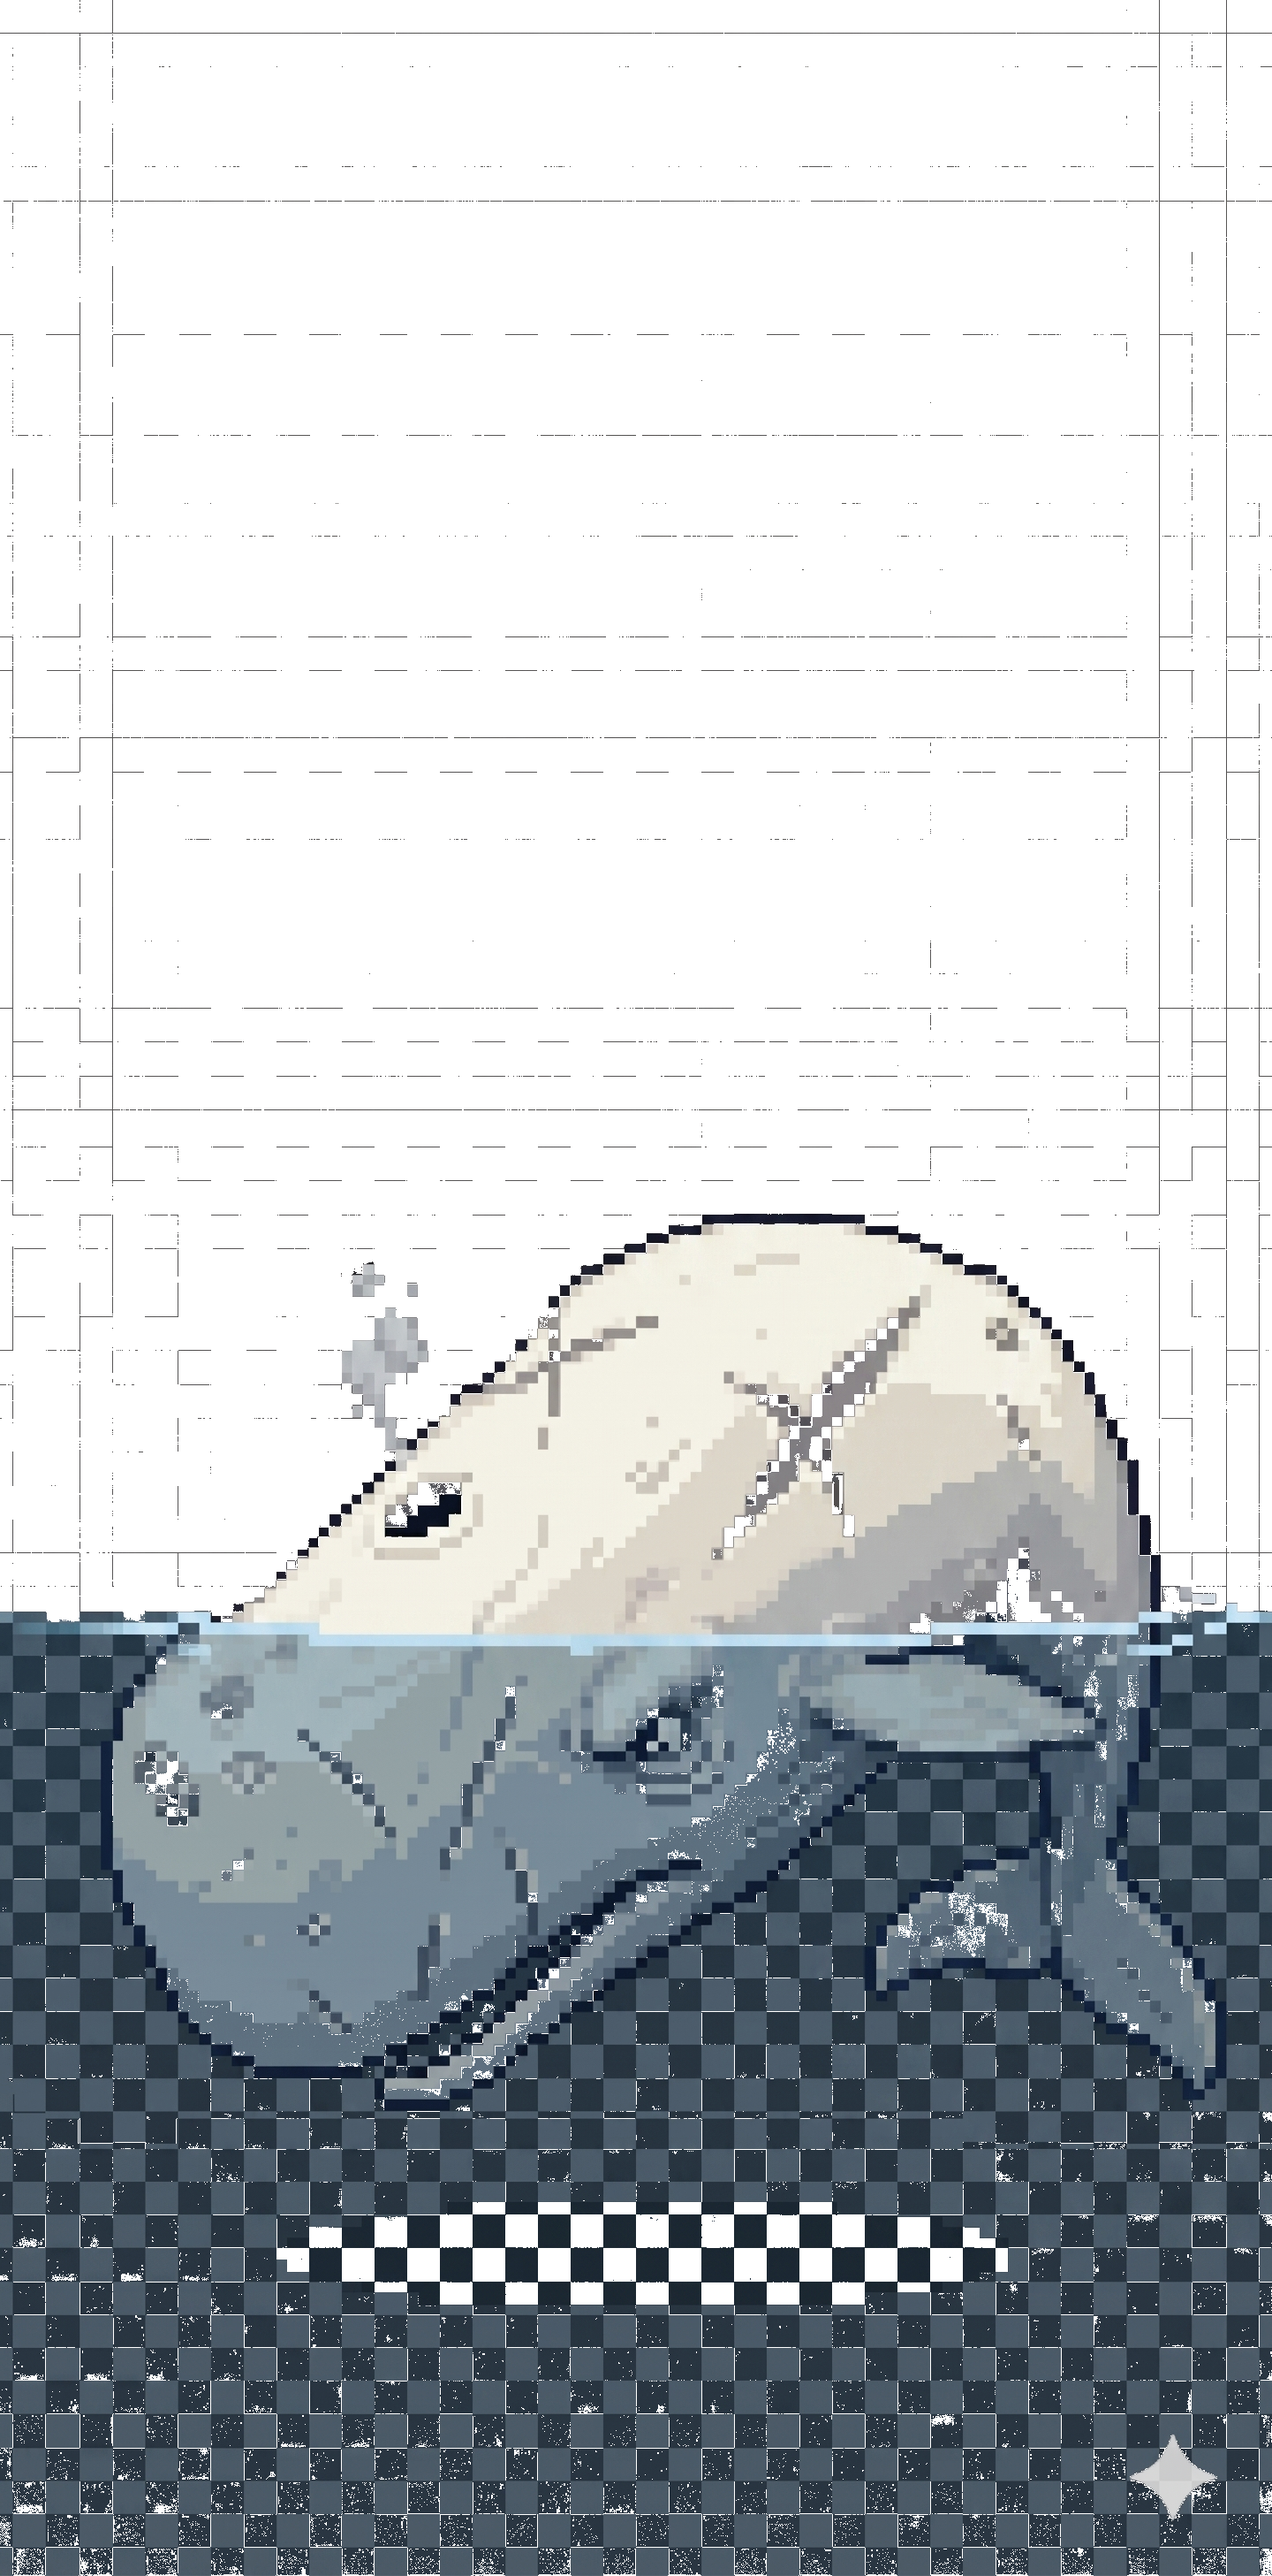
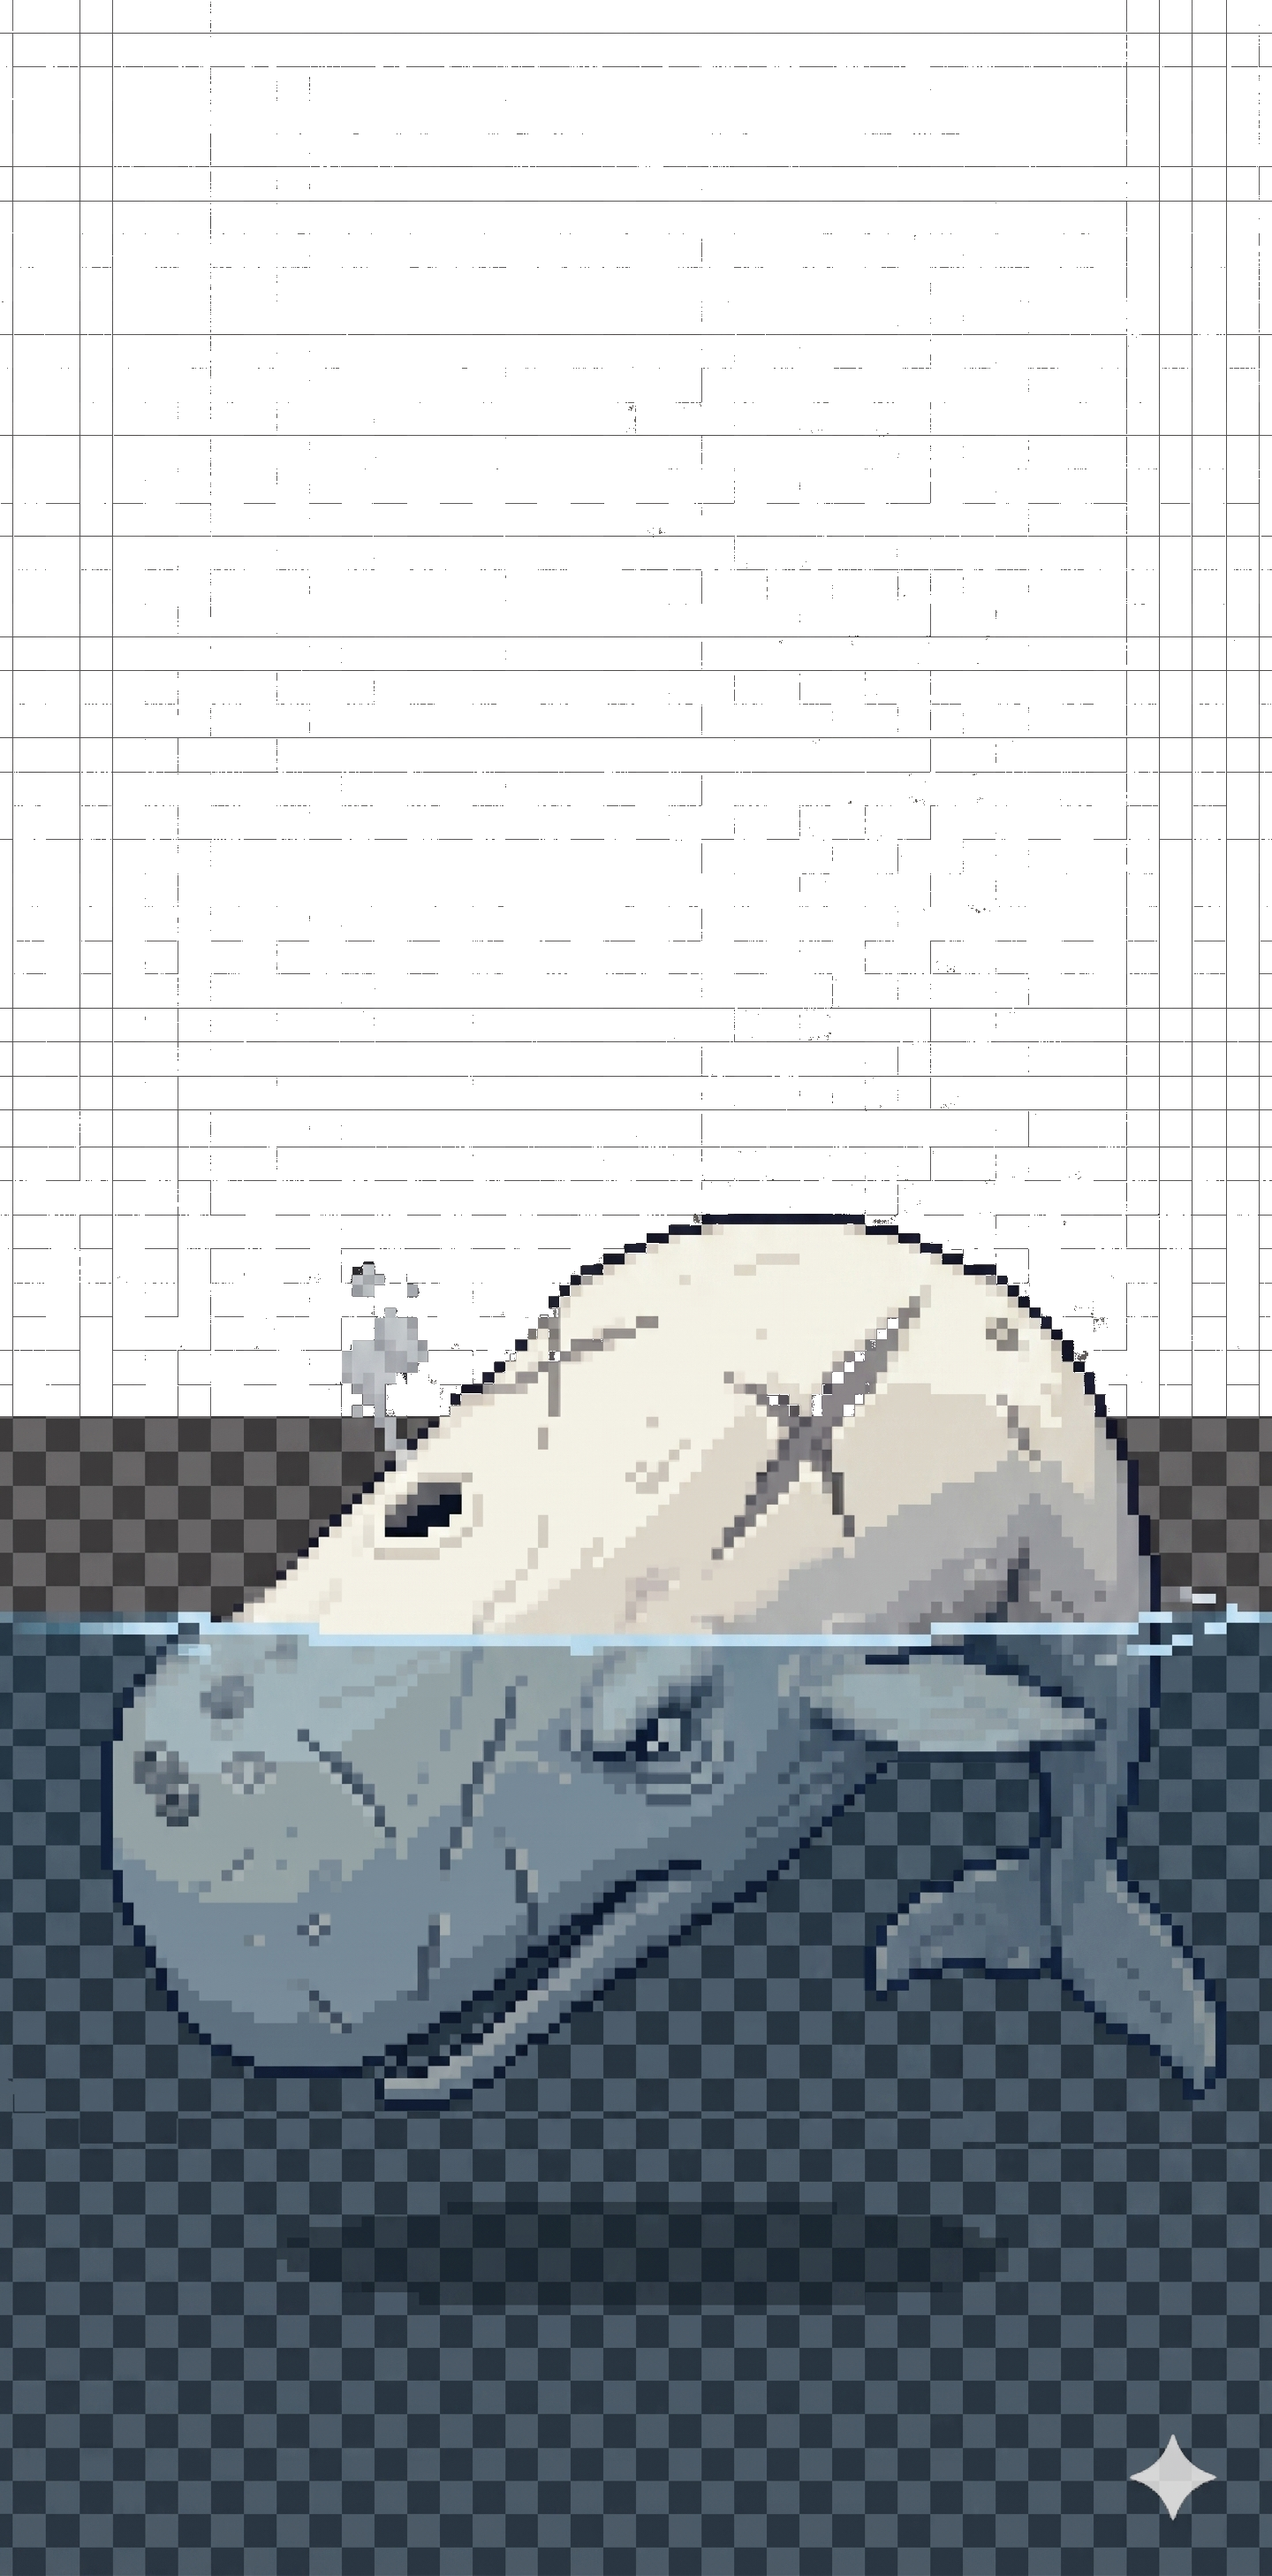
fix(whalabroad): hub card — drop ship sprite, scale whale up, fix water holes
Three issues with the previous card art:

1. The chroma-key was too aggressive on the whale PNG — it keyed not
   only the checker but also dark-blue water pixels in the bottom
   third of the image because they fell within tolerance of the dark
   checker color. Result: patches of card gradient bled through the
   painted water section, looking like residual checker.

   Fix: strip-checker.py gained a --y-max flag that limits keying to
   the top fraction of the image. Re-stripped the whale with
   --y-max 0.55 (only above the water line) and tighter tolerance
   12 (was 18). Verified pixel-by-pixel: y=50..1400 transparent,
   y=1700..2850 fully opaque (intact whale + water).

2. Removed the ship sprite from the card. The whale is now the sole
   subject — bigger and more focused.

3. Scaled the whale up:
   width  92% → 115%   (overflows card slightly, gets cropped)
   max-h  75% → 100%
   bottom -6% → -2%    (sits flush at the bottom edge)
   opacity 0.78 → 0.92 (no longer competing with checker, can dominate)

Removed .hub-retro-ship CSS rule.

Verified deployed: /health green, build clean, asset returns image/png.

diff --git a/apps/box-client/src/App.css b/apps/box-client/src/App.css
@@ -438,44 +438,22 @@ button {
 
 .hub-retro-whale {
   position: absolute;
-  bottom: -6%;
+  bottom: -2%;
   left: 50%;
   transform: translateX(-50%);
-  width: 92%;
-  max-height: 75%;
+  /* Bigger: was 92% / 75%. Now fills the card. */
+  width: 115%;
+  max-height: 100%;
   object-fit: contain;
   object-position: center bottom;
-  opacity: 0.78;
+  /* Higher opacity: now that the checker is gone, the whale can be the
+     star of the card without competing with anything. */
+  opacity: 0.92;
   z-index: 1;
   pointer-events: none;
   filter:
-    drop-shadow(0 4px 12px rgba(0,0,0,0.55))
-    saturate(0.85);
-}
-
-/* Ship cropped from ship-red-sheet.png. The sheet is 1440x2912 = 4 cols
-   x 6 rows. Each cell is 360x485. background-size 400% 600% means the
-   full sheet is rendered 4x wider and 6x taller than the box — so a
-   single cell exactly fills the box. background-position picks the cell:
-   col 1 of 4 = 33.33%, row 0 of 6 = 0%. We use the NE-facing ship for
-   visual interest (slightly turned, more dramatic than head-on N). */
-.hub-retro-ship {
-  position: absolute;
-  top: 14%;
-  right: 8%;
-  width: 36%;
-  aspect-ratio: 360 / 485;
-  background-image: url("/whalabroad/clean/ship-red-sheet.png");
-  background-size: 400% 600%;
-  background-position: 33.33% 0%;
-  background-repeat: no-repeat;
-  z-index: 2;
-  opacity: 0.92;
-  pointer-events: none;
-  filter:
-    drop-shadow(0 6px 12px rgba(0,0,0,0.6))
-    contrast(1.05);
-  transform: rotate(-6deg);
+    drop-shadow(0 6px 16px rgba(0,0,0,0.65))
+    saturate(0.92);
 }
 
 /* Corner-darken vignette for title legibility against the busier

diff --git a/apps/box-client/src/App.tsx b/apps/box-client/src/App.tsx
@@ -110,16 +110,14 @@ function Hub({ roomHook }: { roomHook: ReturnType<typeof useRoom> }) {
       </div>
 
       <div className="hub-card hub-retro" onClick={() => openCard("whalabroad")}>
-        {/* Layered art: hero whale background + ship sprite cropped from
-            the ship-red-sheet atlas + a wave gradient + a subtle moonlit
-            tint, all behind the title. */}
+        {/* Hero whale fills most of the card — no ship sprite, no
+            checker, just the cleaned whale on the sea-palette gradient. */}
         <div className="hub-retro-water" aria-hidden="true" />
         <img className="hub-retro-whale"
              src="/whalabroad/clean/whale-idle-surfaced.png"
              alt=""
              aria-hidden="true"
              loading="lazy" />
-        <div className="hub-retro-ship" aria-hidden="true" />
         <div className="hub-retro-vignette" aria-hidden="true" />
         <div className="hub-card-body">
           <span className="hub-card-eyebrow">STRATEGY · ASYMMETRIC NAVAL</span>

diff --git a/apps/box-client/scripts/strip-checker.py b/apps/box-client/scripts/strip-checker.py
@@ -16,10 +16,15 @@ import sys
 from PIL import Image
 from collections import Counter
 
-def strip_checker(in_path: str, out_path: str, tolerance: int = 15, explicit_colors=None) -> None:
+def strip_checker(in_path: str, out_path: str, tolerance: int = 15, explicit_colors=None,
+                  y_max_frac: float = 1.0) -> None:
+    """y_max_frac limits keying to the top fraction of the image (default 1.0 =
+    whole image). Use a smaller value when the bottom of the image has actual
+    painted content (e.g. dark water) that overlaps the checker tone range."""
     img = Image.open(in_path).convert("RGBA")
     w, h = img.size
     px = img.load()
+    y_limit = int(h * y_max_frac)
 
     if explicit_colors:
         chosen = explicit_colors
@@ -54,7 +59,7 @@ def strip_checker(in_path: str, out_path: str, tolerance: int = 15, explicit_col
         return all(abs(c[i] - target[i]) <= tolerance for i in range(3))
 
     keyed = 0
-    for y in range(h):
+    for y in range(min(y_limit, h)):
         for x in range(w):
             r, g, b, a = px[x, y]
             if a == 0:
@@ -72,6 +77,7 @@ if __name__ == "__main__":
     outp = sys.argv[2]
     tol = 15
     explicit = None
+    y_max = 1.0
     args = sys.argv[3:]
     i = 0
     while i < len(args):
@@ -79,7 +85,9 @@ if __name__ == "__main__":
             vals = [int(v) for v in args[i + 1].split(",")]
             explicit = [tuple(vals[0:3]), tuple(vals[3:6])]
             i += 2
+        elif args[i] == "--y-max" and i + 1 < len(args):
+            y_max = float(args[i + 1]); i += 2
         else:
             tol = int(args[i]); i += 1
-    print(f"Stripping checker from {inp} (tolerance={tol})")
-    strip_checker(inp, outp, tol, explicit)
+    print(f"Stripping checker from {inp} (tolerance={tol}, y_max_frac={y_max})")
+    strip_checker(inp, outp, tol, explicit, y_max)
